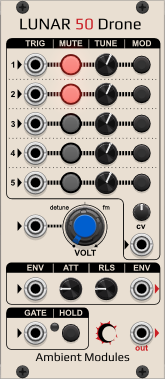
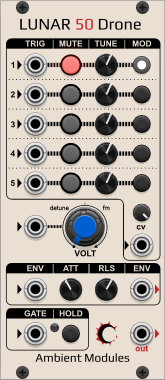
Docs: fix stale wording found in a pre-release doc/code audit
- LunarVCO: the "no Gate needed" Self-generation patch idea was misleading
  — without a prior Gate rising edge or Hold engaged, the envelope stays in
  silence forever; clarified both the feature description and the patch
  idea, and noted Sustain sets the free-running LFO's peak depth.
- LunarSequencer: the internal Pulser's waveform was never actually stated
  (it's a clean ~50%-duty square, not a ramp); the Stages switch entry
  described the original hardware's vertical top-to-bottom reading (4, 5, 3)
  without saying this module's own horizontal switch reads left-to-right as
  3, 5, 4 instead. Also "5-stage" -> "3-to-5-stage" in the summary table and
  section intro, matching plugin.json's own wording.
- Refreshed Lunar50Drone/LunarVCO/LunarPapaSrapa screenshots to match the
  oscillator-1-active-by-default and Attack/Release default changes from
  1246374/c550abe.

diff --git a/README.md b/README.md
@@ -11,7 +11,7 @@
 | [LunarVCO](#lunarvco)             | AS3340-style VCO with ADSR and hard sync           | Voices "VCO A / VCO B"                     |
 | [LunarPapaSrapa](#lunarpapasrapa) | FM/AM cross-modulated noise/drone voice            | Drone voices 3, 6 "Papa Srapa"             |
 | [LunarLFO](#lunarlfo)             | Dual unipolar triangle/square LFO                  | LFOs                                       |
-| [LunarSequencer](#lunarsequencer) | 5-stage Buchla-inspired CV/gate sequencer          | Sequencer                                  |
+| [LunarSequencer](#lunarsequencer) | 3-to-5-stage Buchla-inspired CV/gate sequencer     | Sequencer                                  |
 
 ## Table of Contents
 
@@ -132,7 +132,7 @@ An AS3340-style voltage-controlled oscillator — the SOLAR 42F's "VCO A / VCO B
 - **FM amount** — attenuverter for the FM input.
 - **Attack / Decay / Sustain / Release** — the built-in ADSR envelope.
 - **Hold** (lit button) — see [Shared conventions](#shared-conventions).
-- **Self-generation** (lit button) — turns the envelope generator into a free-running LFO instead of a one-shot envelope; Attack and Release should be turned low (towards 9 o'clock) for this to cycle usefully.
+- **Self-generation** (lit button) — turns the envelope generator into a free-running LFO instead of a one-shot envelope; Attack and Release should be turned low (towards 9 o'clock) for this to cycle usefully, and Sustain sets its peak depth. Still needs Gate to have gone high at least once (or Hold engaged) to start — it doesn't cycle on its own from silence.
 
 **Inputs**
 - **V/oct** — pitch, standard 1V/octave.
@@ -151,7 +151,7 @@ An AS3340-style voltage-controlled oscillator — the SOLAR 42F's "VCO A / VCO B
 
 **Patch ideas**
 - Drive V/oct from [LunarSequencer](#lunarsequencer)'s Step CV output for melodic drone runs.
-- Enable Self-generation with a slow Attack/Release to use the envelope itself as a free amplitude LFO, no Gate needed.
+- Enable Self-generation with a slow Attack/Release and Hold engaged to use the envelope itself as a free amplitude LFO with nothing patched into Gate.
 
 ## LunarLFO
 
@@ -222,11 +222,11 @@ The SOLAR 42F's "Papa Srapa" noise/drone voice: a low-frequency square-wave modu
 
 ![LunarSequencer panel](docs/images/LunarSequencer.png)
 
-A classic, Buchla-inspired 5-stage sequential voltage source: each step stores its own CV (0–100%, rescaled to volts by the CV Range setting) and its own gate on/off.
+A classic, Buchla-inspired 3-to-5-stage sequential voltage source: each step stores its own CV (0–100%, rescaled to volts by the CV Range setting) and its own gate on/off.
 
 **Knobs & switches**
-- **Pulser rate** — speed of the internal clock, used whenever nothing is patched into Clock In.
-- **Stages** — sets the sequence length to 3, 4, or 5 steps. ⚠ Following the original SOLAR 42F hardware switch, the physical positions read (top to bottom) 4, 5, 3 rather than the more intuitive 3, 4, 5. Click directly on the side you want (rather than the current lever position) to jump straight there, like a real toggle switch.
+- **Pulser rate** — speed of the internal clock, used whenever nothing is patched into Clock In. The internal pulser is a clean ~50%-duty square wave (not a ramp/sawtooth) — same shape whether it's driving Clock Out or advancing the steps internally.
+- **Stages** — sets the sequence length to 3, 4, or 5 steps. ⚠ Following the original SOLAR 42F hardware switch (a vertical lever read top to bottom as 4, 5, 3), this module's own horizontal switch reads left to right as **3, 5, 4** rather than the more intuitive 3, 4, 5. Click directly on the side you want (rather than the current lever position) to jump straight there, like a real toggle switch.
 - **Step 1–5 CV** — each step's output level; the knob's tooltip shows the actual voltage for the currently selected CV Range.
 - **Step 1–5 gate** (lit button) — enables/disables that step's Gate output. This does **not** affect the CV output — a "gate off" step is skipped for triggering, but its CV value still plays when the sequence reaches it.
 
